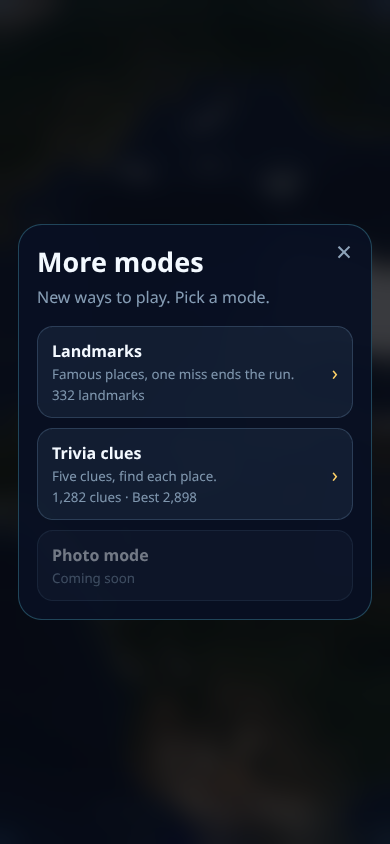
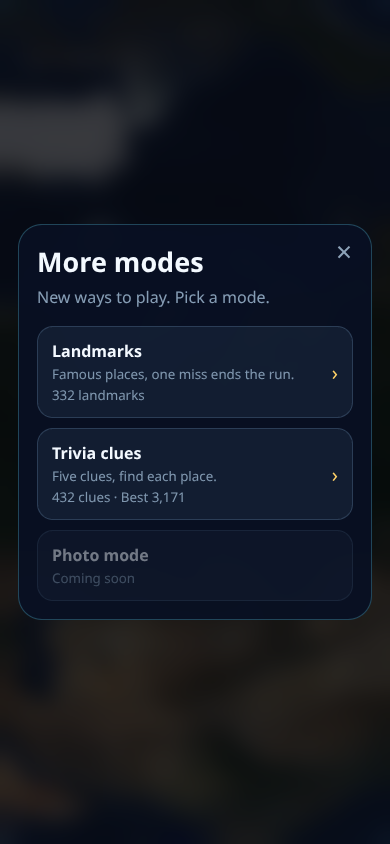
Trivia bank repair (phase 2): Trivia plays only photo-verified entries
The playable rule gains photo === 'verified'; the hub count follows (432 clues).
Harness expectations moved to the verified pool plus a targetsVerified check: 28 of 28 pass.

diff --git a/src/modes/trivia.js b/src/modes/trivia.js
@@ -19,9 +19,10 @@ const BANDS = [[1, 2], [3, 4], [5, 6], [7, 8], [9, 10]];
 let bank = [];
 export const trivia = { active: false, round: 0, item: null, picks: [], results: [] };
 
-// Playable: a 1 to 10 difficulty and a photo for the reveal.
+// Playable: a 1 to 10 difficulty and a photo for the reveal that was checked
+// to show the entry's place (photo: 'verified').
 const isPlayable = (entry) => Number.isInteger(entry.difficulty) && entry.difficulty >= 1 && entry.difficulty <= 10
-  && Boolean(entry.image);
+  && Boolean(entry.image) && entry.photo === 'verified';
 export function triviaBankLoaded(data) {
   bank = (Array.isArray(data) ? data : []).filter(isPlayable);
   host.gameEls.triviaEntry.disabled = !bank.length;
